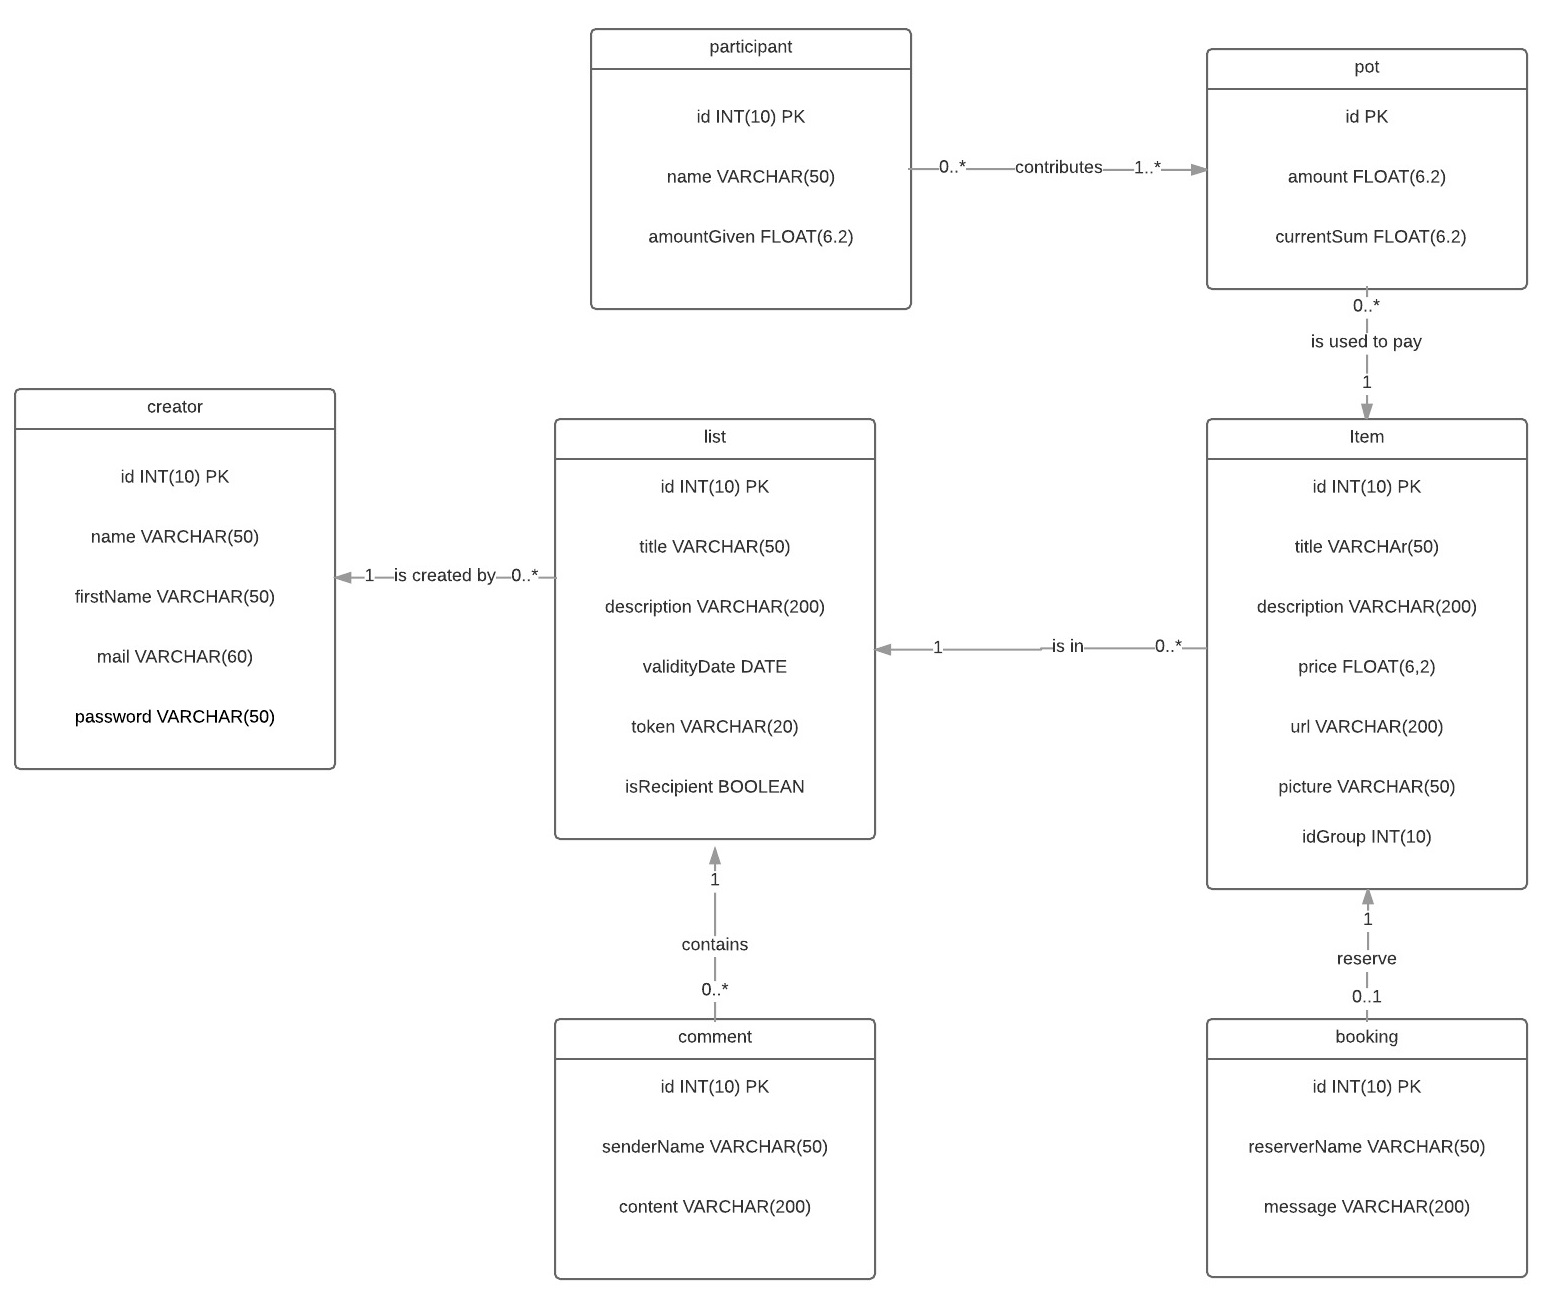
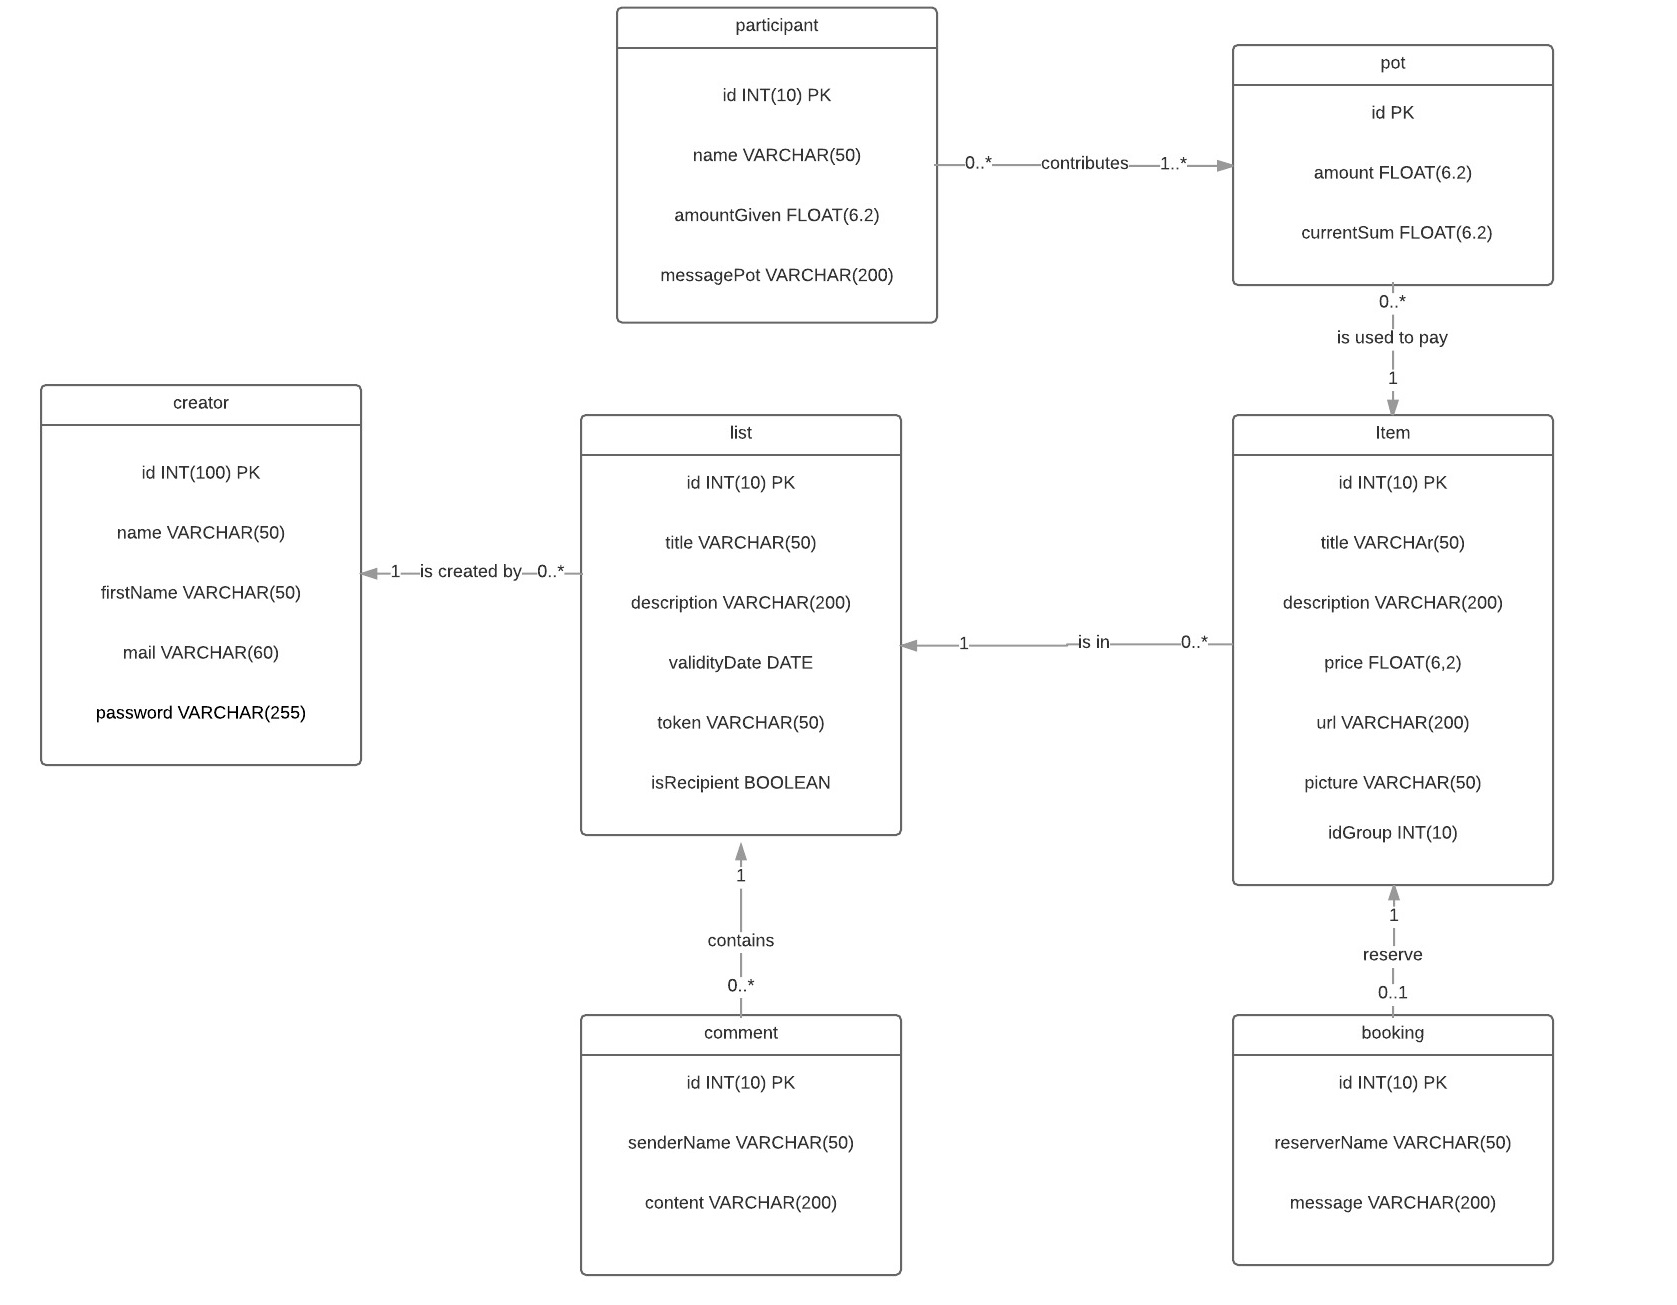
Ajout des Models; rajout de IdList dans la table Item, messagePot dans participant, token de lists passe à vchr50, id de creator passe a 100 et mdp a 255

diff --git a/app/src/Models/Participant.php b/app/src/Models/Participant.php
@@ -1,0 +1,18 @@
+<?php
+/**
+ * Created by PhpStorm.
+ * User: Nicolas
+ * Date: 08/11/2017
+ * Time: 00:38
+ */
+
+namespace App\Models;
+
+use Illuminate\Database\Eloquent\Model;
+
+class Participant extends Model
+{
+    protected $table = "participant";
+    protected $primaryKey = 'id';
+    public $timestamps = 'false';
+}

diff --git a/app/src/Models/Booking.php b/app/src/Models/Booking.php
@@ -1,0 +1,18 @@
+<?php
+/**
+ * Created by PhpStorm.
+ * User: Nicolas
+ * Date: 08/11/2017
+ * Time: 00:34
+ */
+
+namespace App\Models;
+
+use Illuminate\Database\Eloquent\Model;
+
+class Booking extends Model
+{
+    protected $table = "booking";
+    protected $primaryKey = 'id';
+    public $timestamps = 'false';
+}

diff --git a/app/src/Models/Comment.php b/app/src/Models/Comment.php
@@ -1,0 +1,18 @@
+<?php
+/**
+ * Created by PhpStorm.
+ * User: Nicolas
+ * Date: 08/11/2017
+ * Time: 00:35
+ */
+
+namespace App\Models;
+
+use Illuminate\Database\Eloquent\Model;
+
+class Comment extends Model
+{
+    protected $table = "comment";
+    protected $primaryKey = 'id';
+    public $timestamps = 'false';
+}

diff --git a/app/src/Models/Pot.php b/app/src/Models/Pot.php
@@ -1,0 +1,18 @@
+<?php
+/**
+ * Created by PhpStorm.
+ * User: Nicolas
+ * Date: 08/11/2017
+ * Time: 00:36
+ */
+
+namespace App\Models;
+
+use Illuminate\Database\Eloquent\Model;
+
+class Pot extends Model
+{
+    protected $table = "pot";
+    protected $primaryKey = 'id';
+    public $timestamps = 'false';
+}

diff --git a/app/src/Models/Item.php b/app/src/Models/Item.php
@@ -7,4 +7,6 @@ use Illuminate\Database\Eloquent\Model;
 class Item extends Model
 {
   protected $table = "item";
+  protected $primaryKey = 'id';
+  public $timestamps = 'false';
 }
